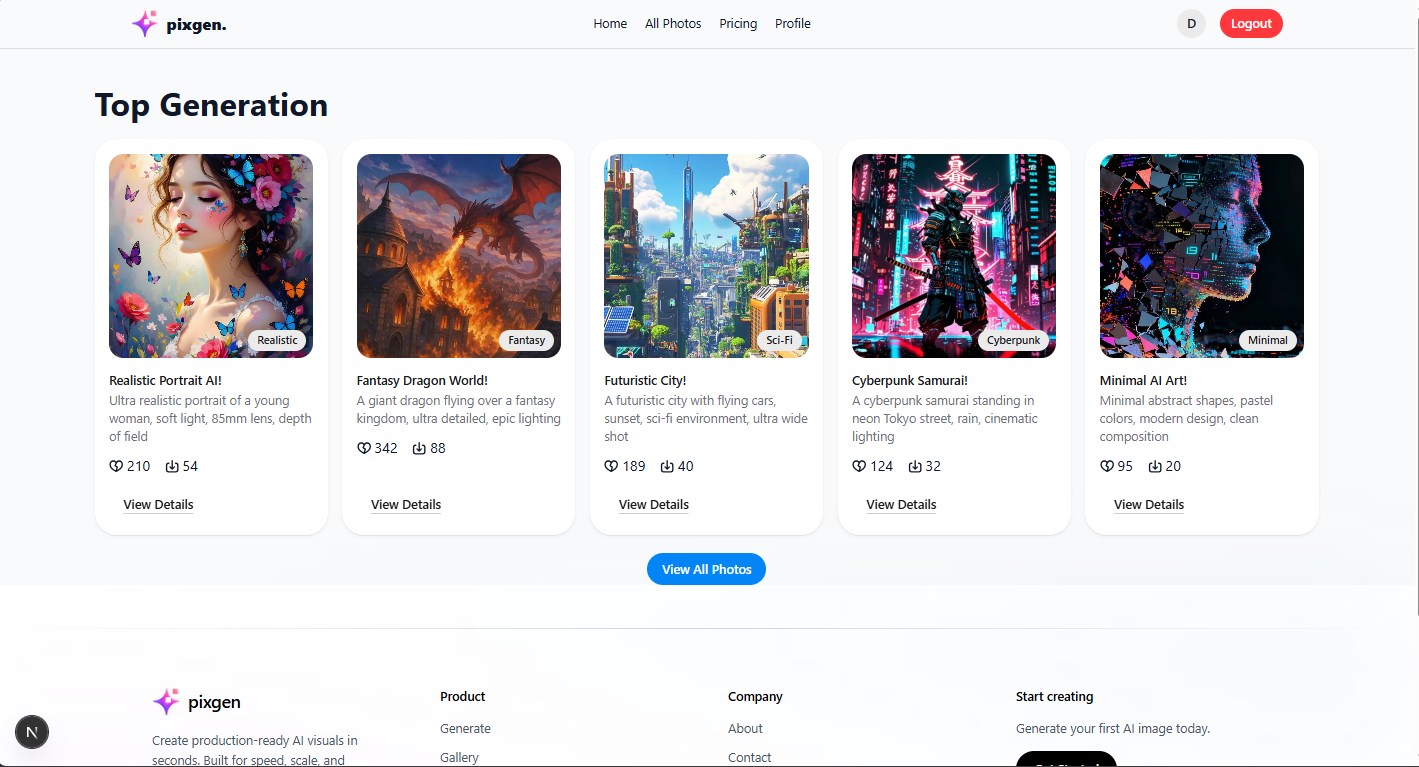
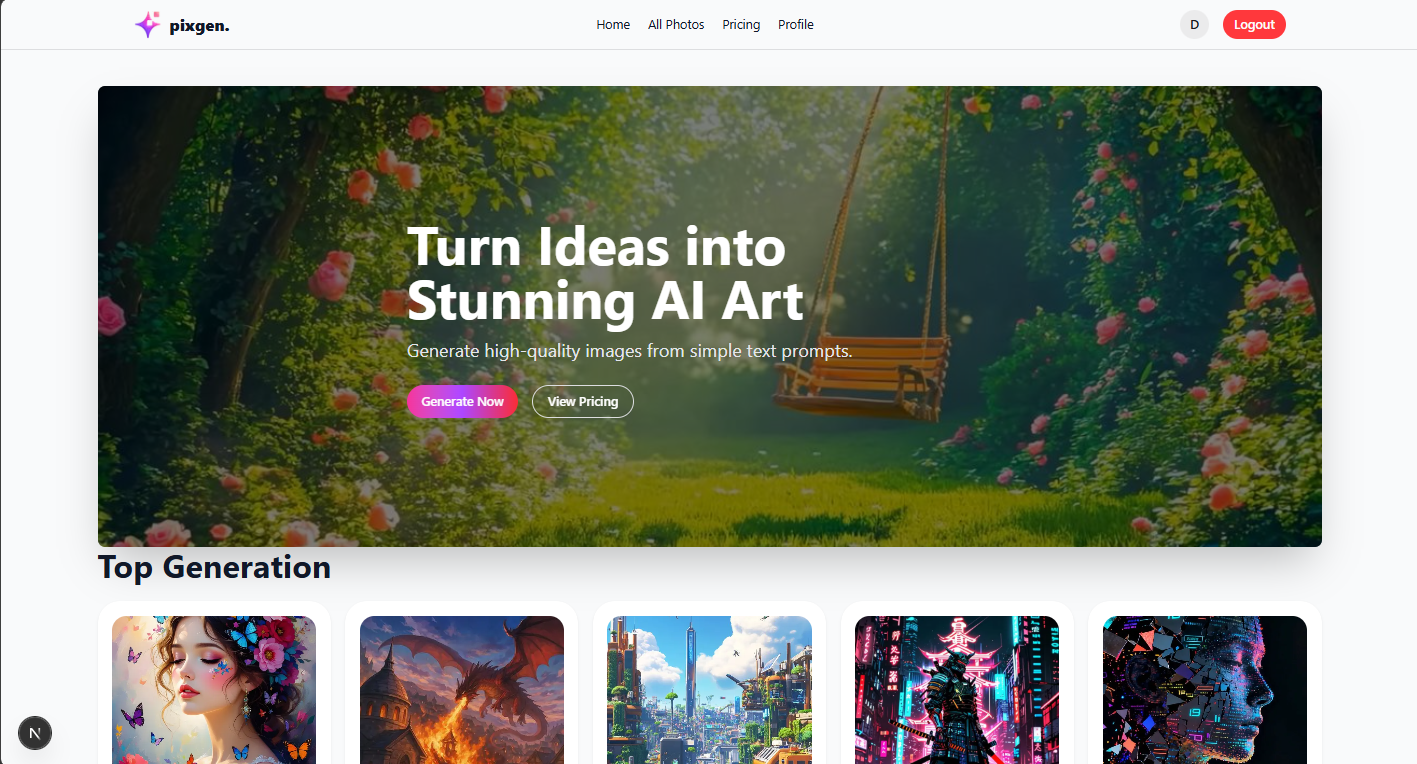
Fix: Issue

diff --git a/src/app/page.js b/src/app/page.js
@@ -3,7 +3,7 @@ import TopGeneration from "@/components/TopGeneration";
 
 export default function Home() {
   return <>
-    {/* <Banner /> */}
+    <Banner />
     <TopGeneration/>
   </>;
 }
